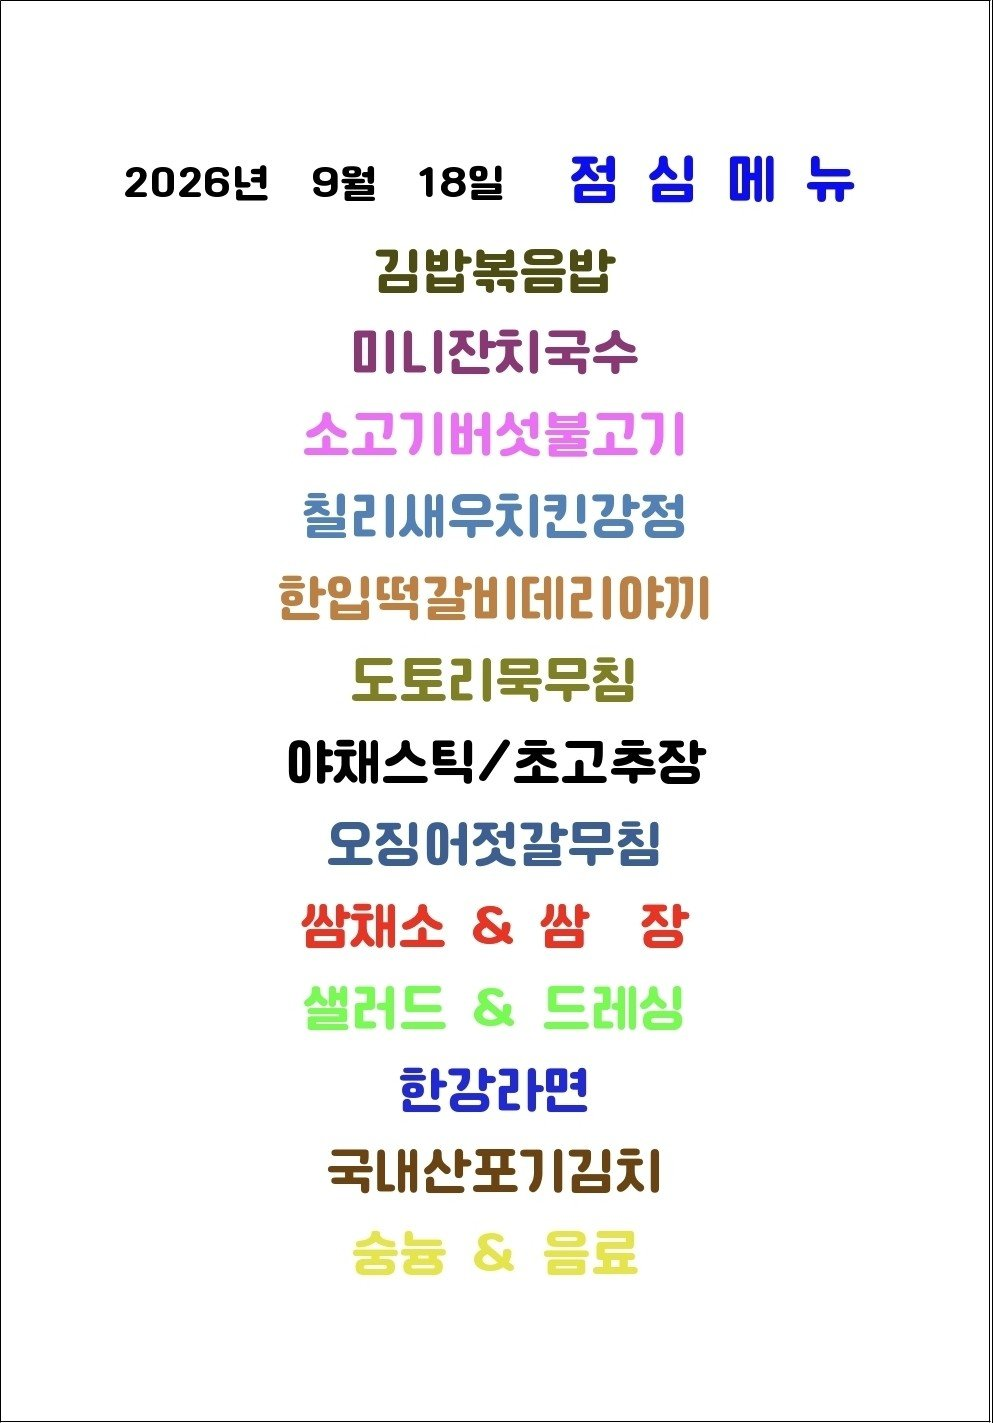
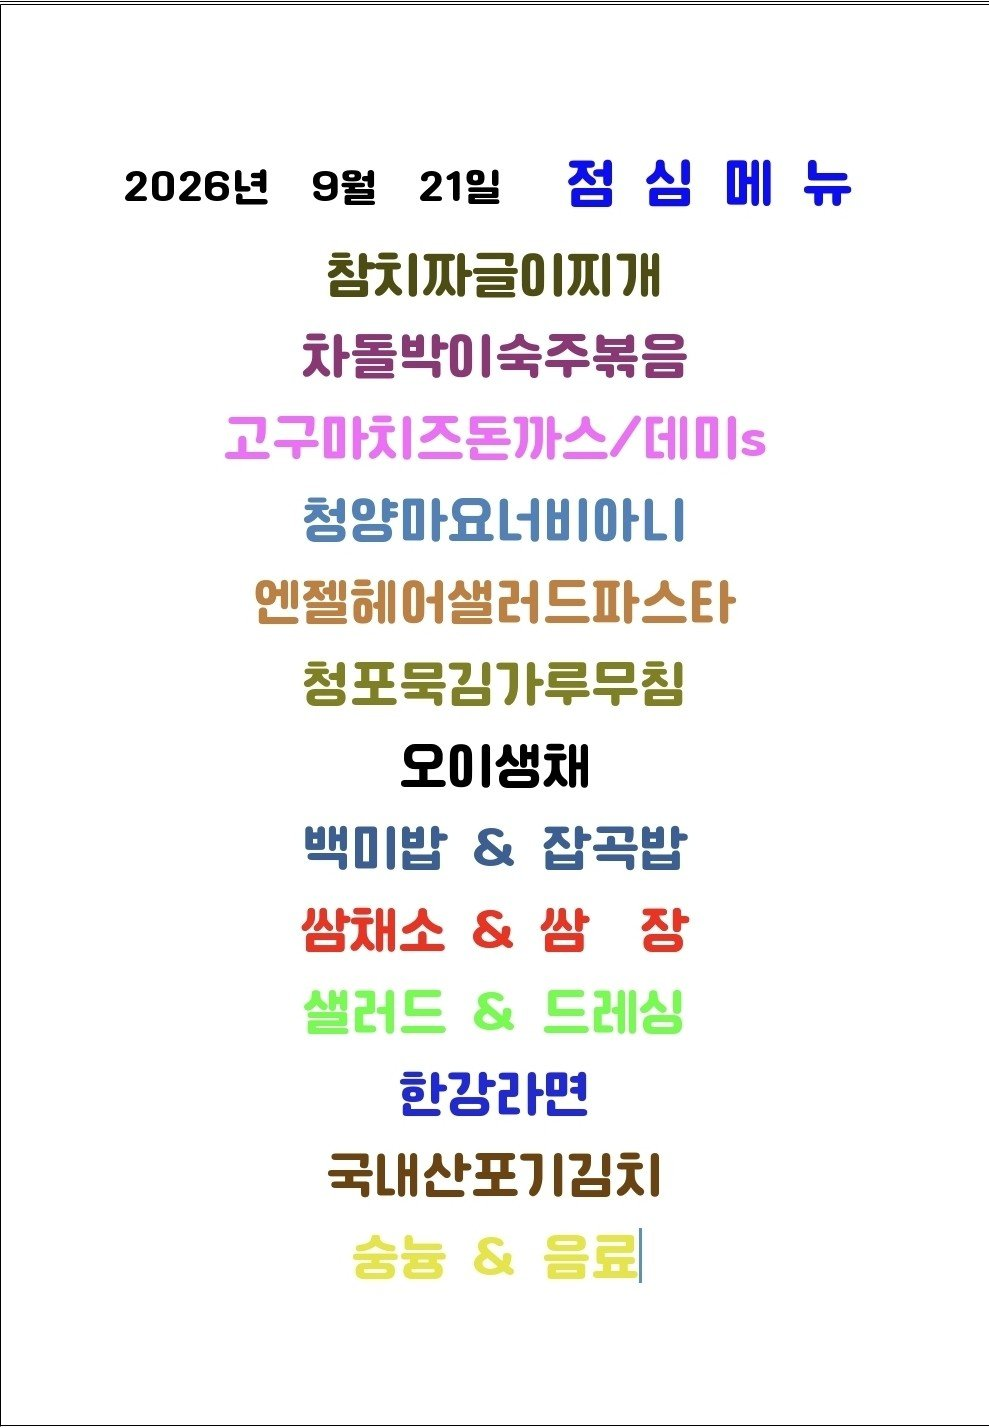
Update menu board assets

diff --git a/menu-today/index.html b/menu-today/index.html
@@ -209,7 +209,7 @@
 
     <section class="meta-bar">
       <div class="meta-card"><div class="meta-label">기준 날짜</div><div class="meta-value">2026년 9월 21일 월요일</div></div>
-      <div class="meta-card"><div class="meta-label">최종 가져온 시간</div><div class="meta-value">2026-09-21 09:18:02</div></div>
+      <div class="meta-card"><div class="meta-label">최종 가져온 시간</div><div class="meta-value">2026-09-21 09:32:40</div></div>
       <div class="meta-card"><div class="meta-label">확인 완료</div><div class="meta-value">9개 식당</div></div>
       <div class="meta-card"><div class="meta-label">준비중</div><div class="meta-value">3개 채널</div></div>
     </section>
@@ -265,7 +265,7 @@
             <div class="sub">가산비즈니스센터</div>
           </div>
         </div>
-        <div class="menu-inline-image"><img src="./images/raonfood.png" alt="구내식당라온푸드 식단 이미지"></div><div class="info-note">오늘 메뉴 미수집 상태입니다.</div>
+        <div class="menu-inline-image"><img src="./images/raonfood.png" alt="구내식당라온푸드 식단 이미지"></div><ul><li>엔젤헤어샐러드파스타</li><li>청포묵김가루무침</li><li>백미밥 / 잡곡밥</li><li>샐러드 &amp; 드레싱</li><li>한감라면</li></ul>
       </article>
 
       <article class="restaurant-card">
@@ -295,7 +295,7 @@
             <div class="sub">에이스테크노타워10차</div>
           </div>
         </div>
-        <div class="menu-inline-image"><img src="./images/thefoodsketch.png" alt="더푸드스케치 식단 이미지"></div><ul><li>창치김치찌개</li><li>제육볶음</li><li>후라이드 치킨 &amp; 와사비 소스</li><li>크래미계란말이</li><li>소고기하이라이스</li><li>= 버섯비빙국수</li><li>Z 비엔나소세지볶음</li><li>롱나물무창</li><li>가든샐러드 / 드레싱</li><li>배추겉절이 / 응료</li></ul>
+        <div class="menu-inline-image"><img src="./images/thefoodsketch.png" alt="더푸드스케치 식단 이미지"></div><ul><li>창치김치찌개</li><li>제육볶음</li><li>후라이드 치킨 &amp; 와사비 소스</li><li>크래미계란말이</li><li>소고기하이라이스</li><li>= 버섯비빙국수</li><li>Z 비엔나소세지볶음</li><li>롱나물무창</li><li>가든샐러드 &amp; 드레싱</li><li>배추겉절이 / 응료</li></ul>
       </article>
 
       <article class="restaurant-card">

diff --git a/guro-menu/index.html b/guro-menu/index.html
@@ -32,7 +32,7 @@
   </header>
   <section class="meta">
     <div><small>기준 날짜</small><strong>2026년 9월 21일 월요일</strong></div>
-    <div><small>최종 갱신</small><strong>2026-09-21 09:18:15</strong></div>
+    <div><small>최종 갱신</small><strong>2026-09-21 09:32:51</strong></div>
     <div><small>등록 식당</small><strong>5개</strong></div>
   </section>
   <div class="notice">공개 카카오 채널의 메뉴 이미지를 자동 수집하고 OCR로 정리합니다. 텍스트에 오타가 있을 수 있으니 식단 이미지를 함께 확인해 주세요.</div>
